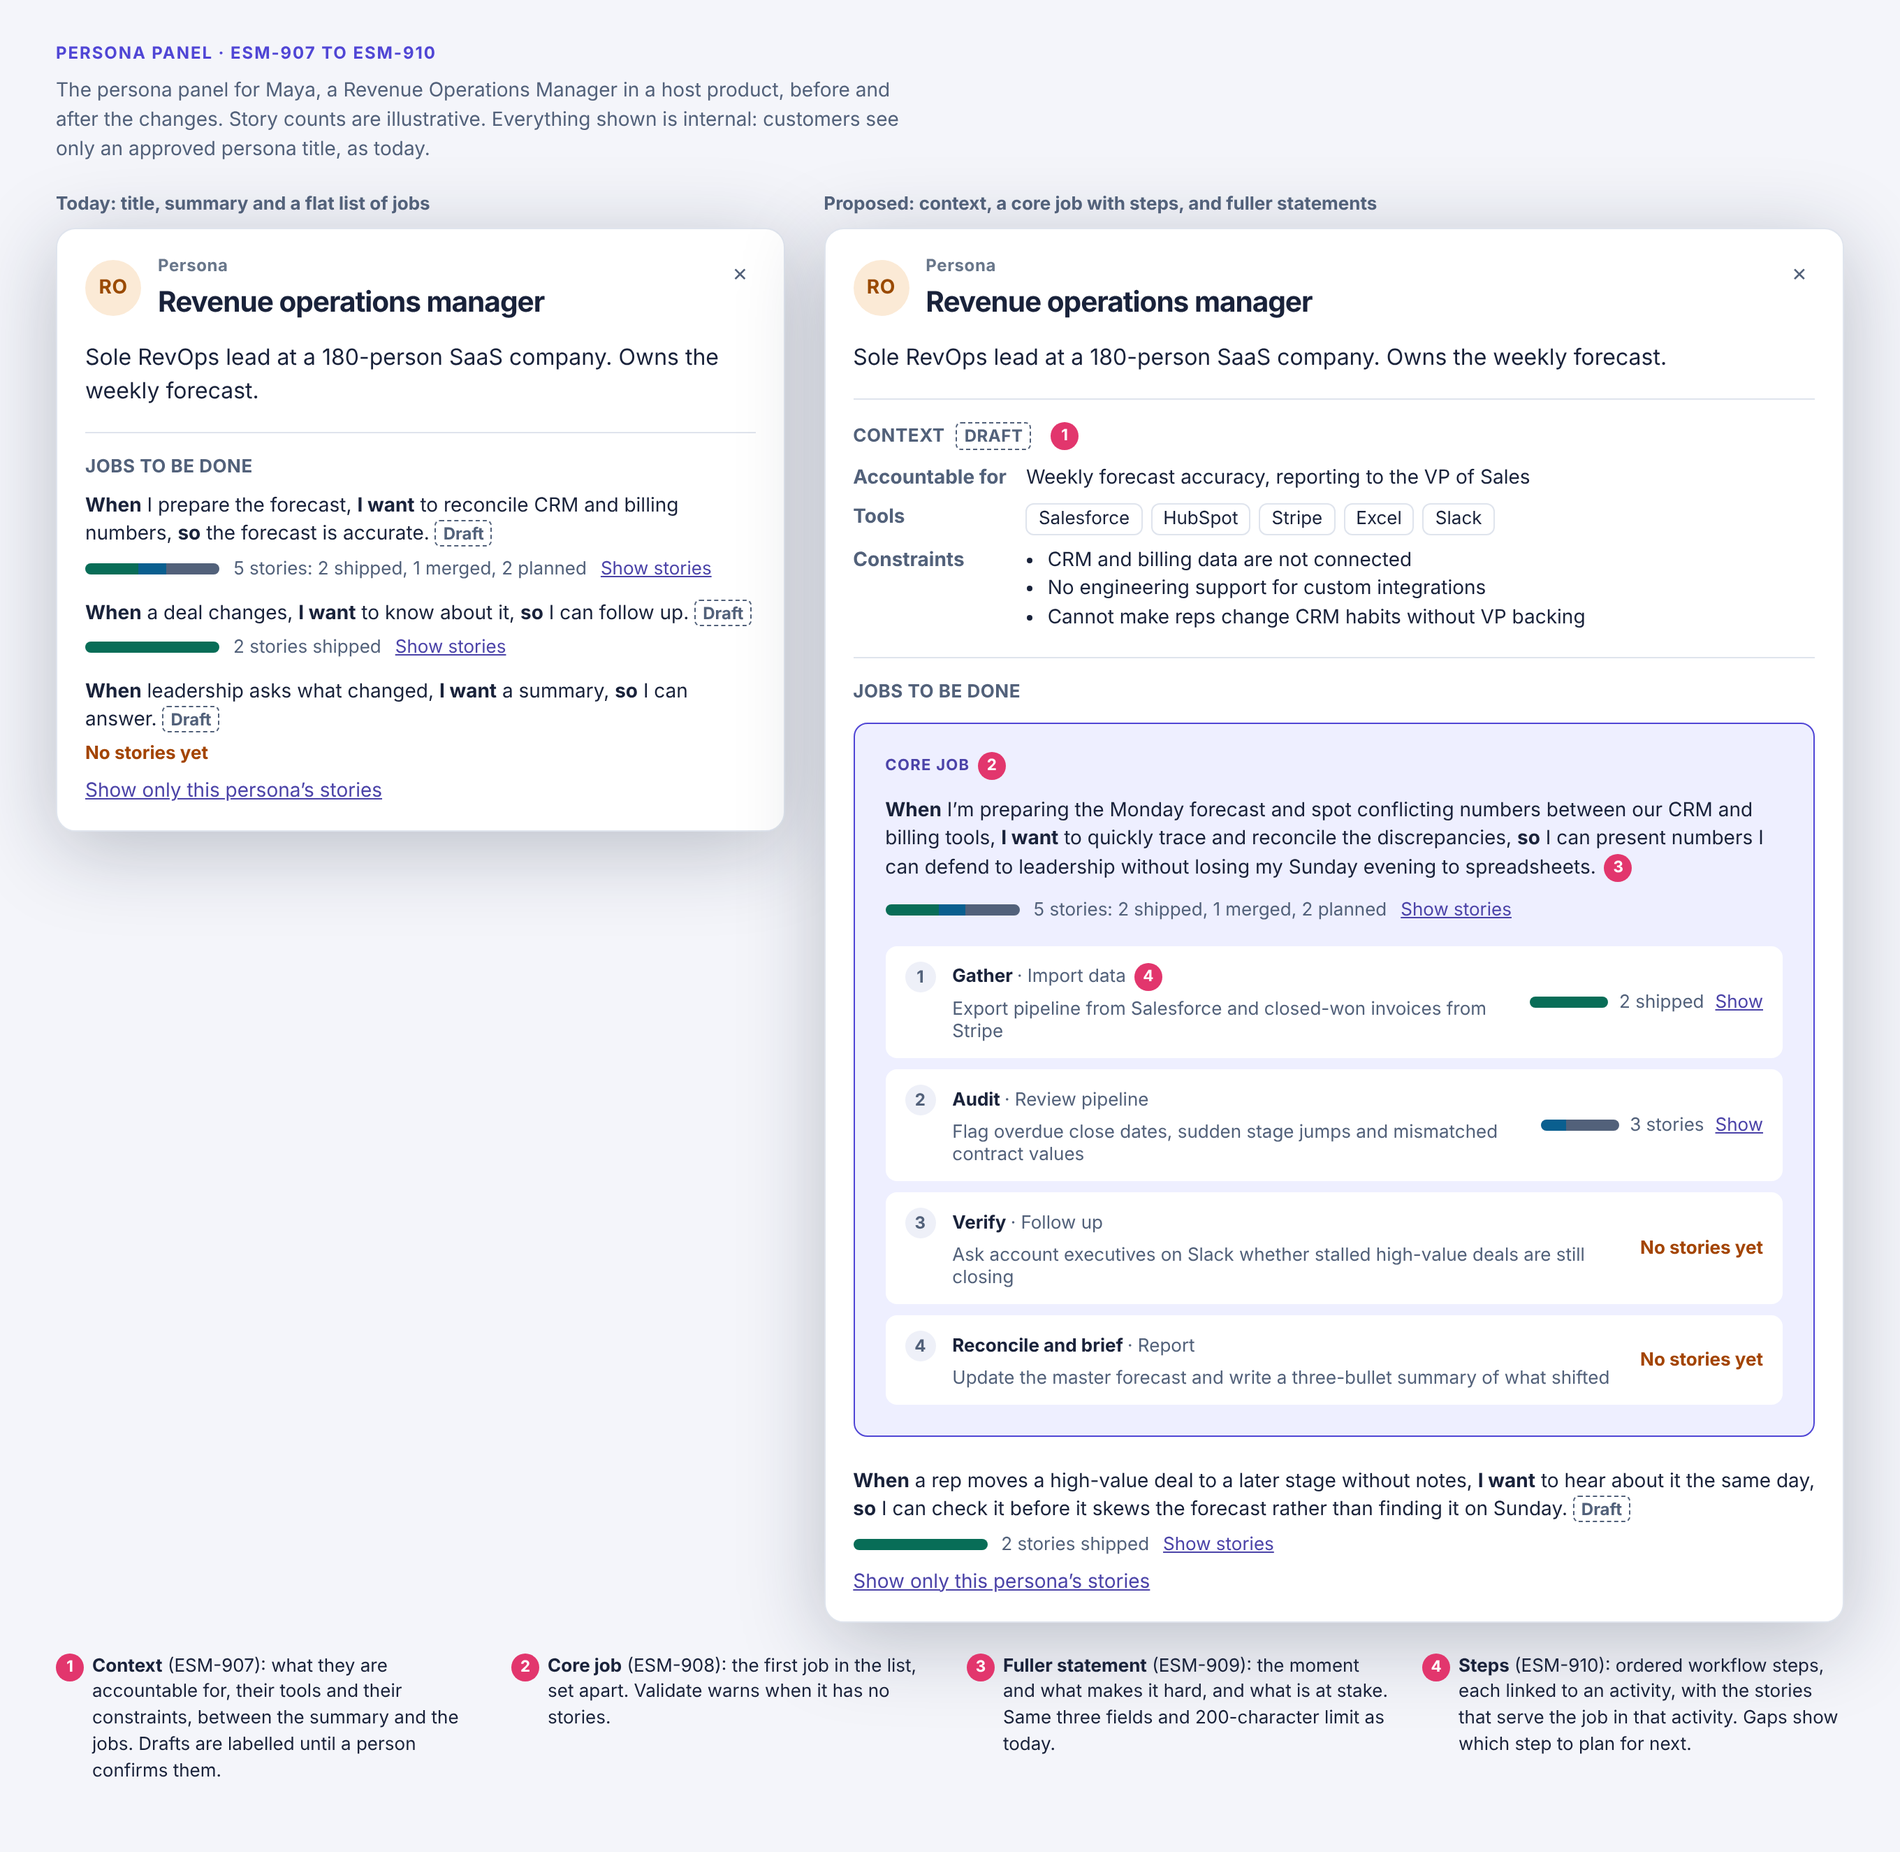
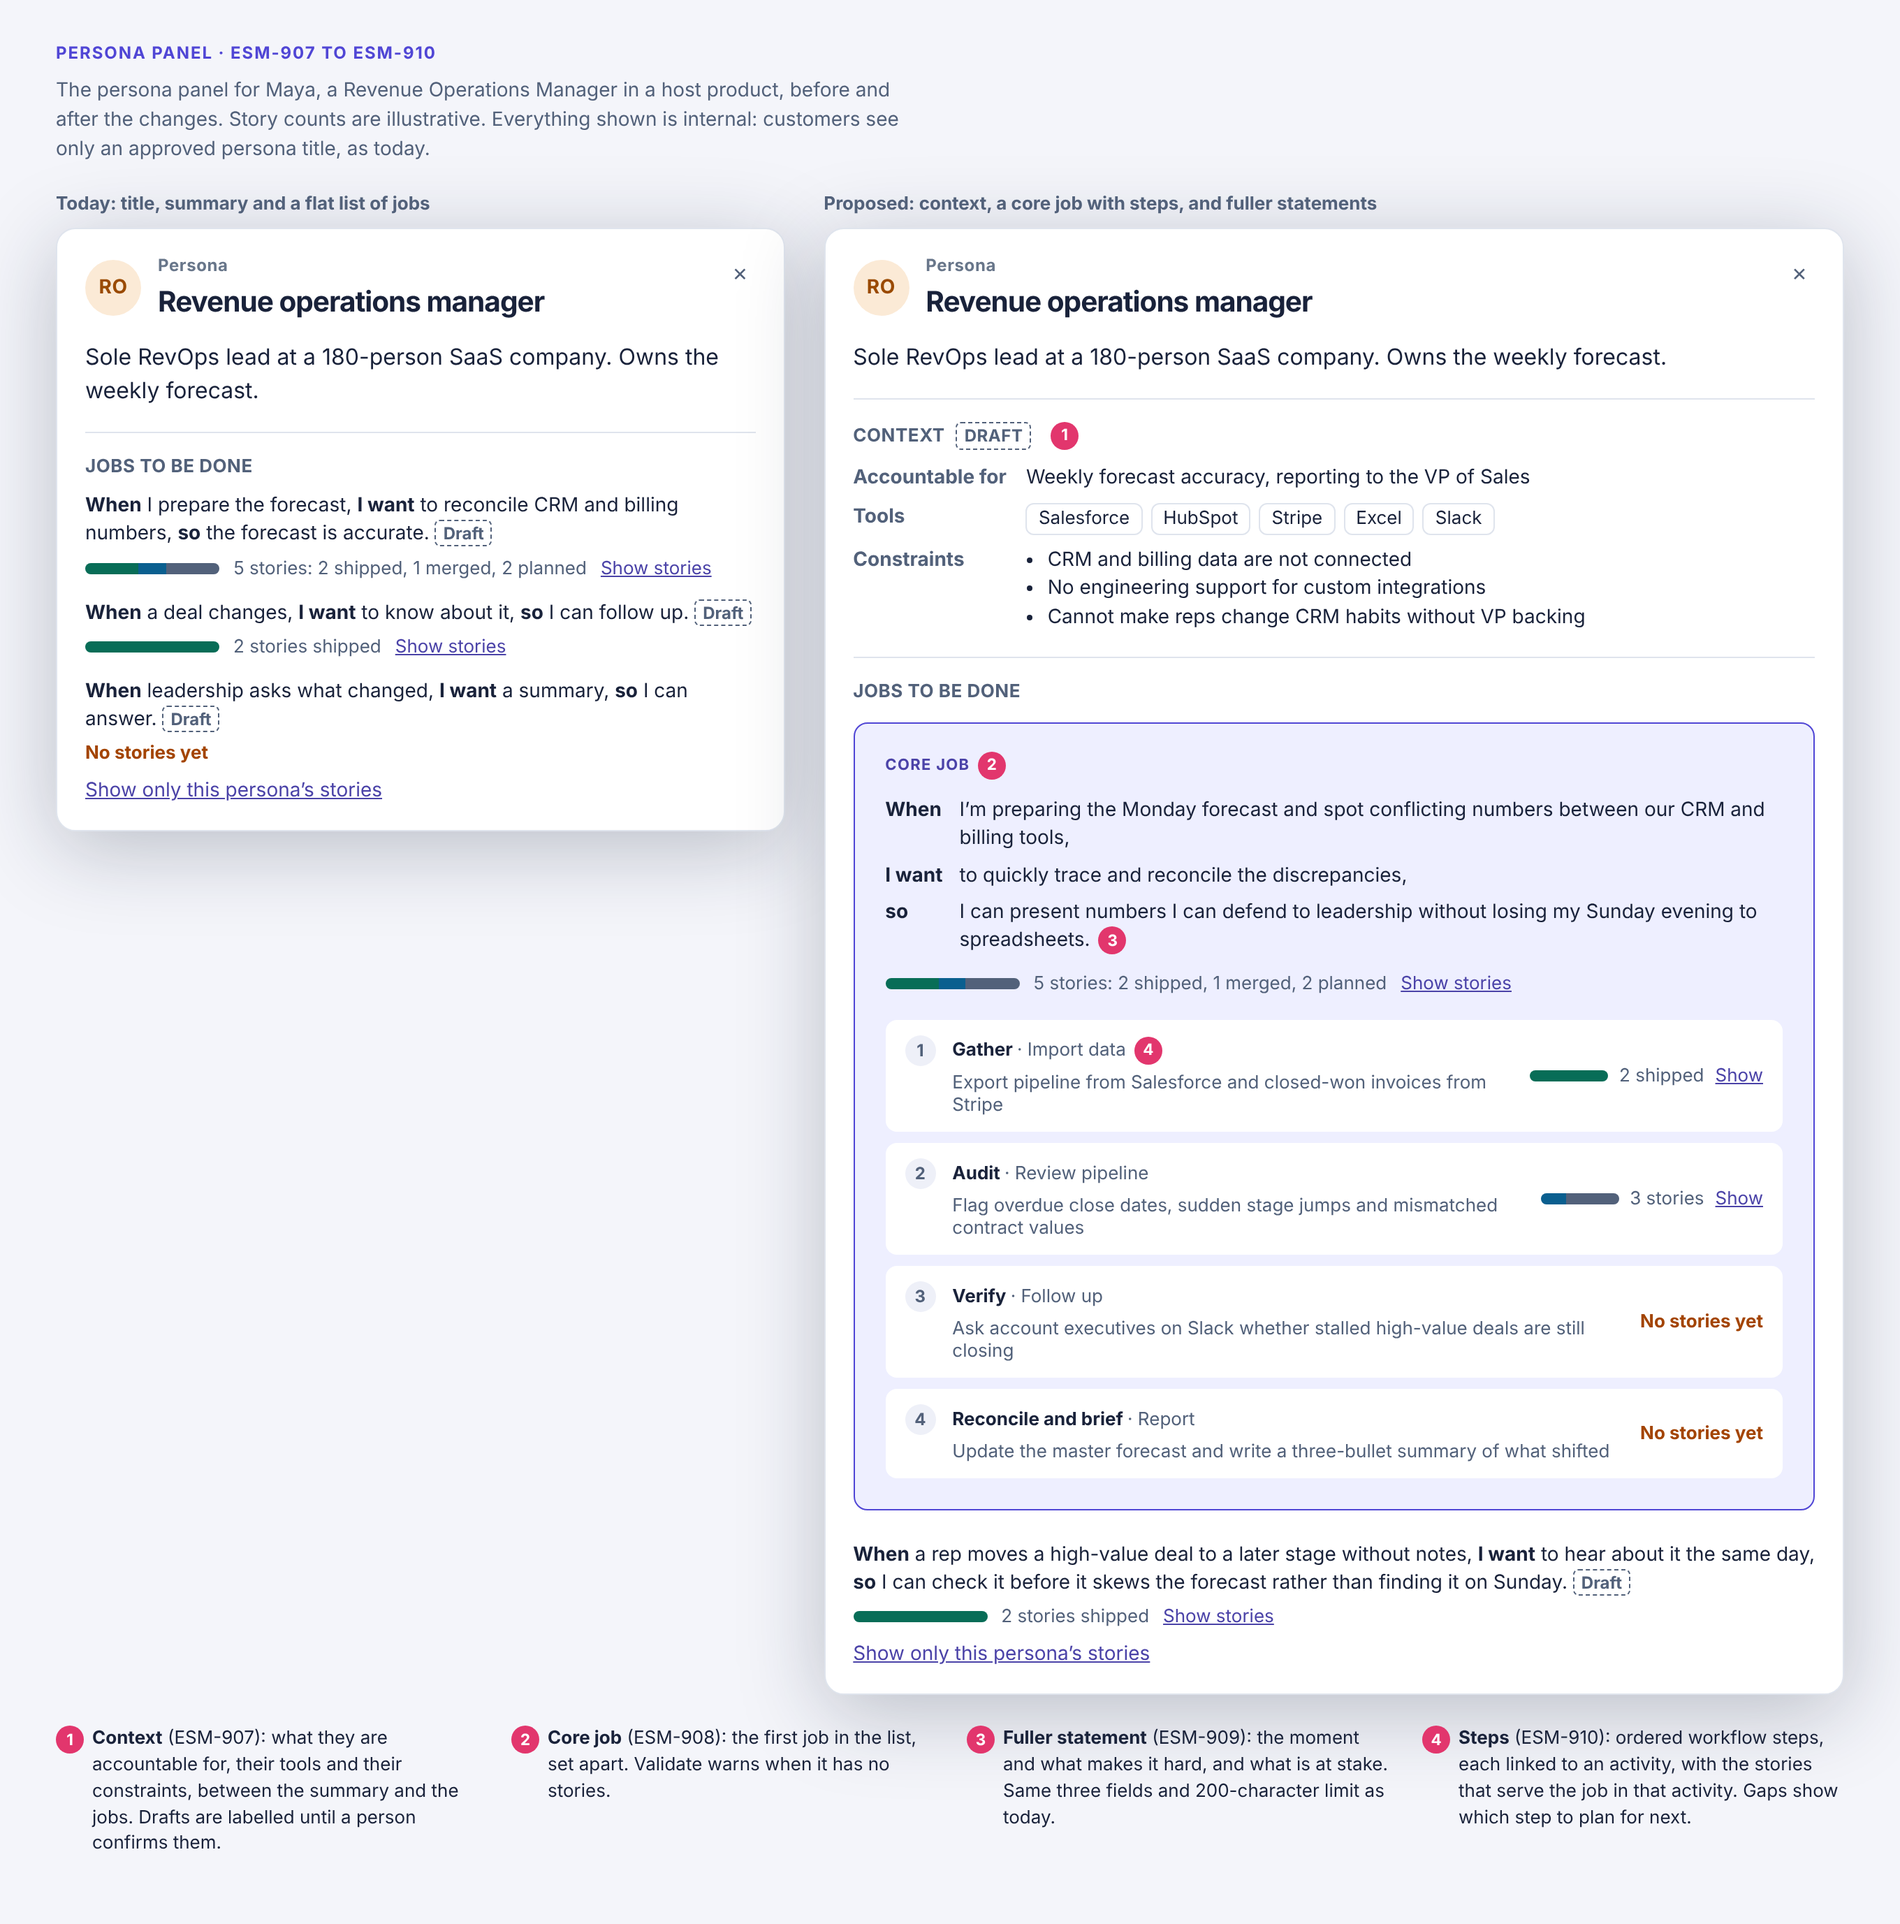
ESM-908: Put each part of the core job statement on its own line
Claude-Session: https://claude.ai/code/session_01Lq2MQU9VuAnafWHNpvrwxg

diff --git a/docs/plans/persona-context-mockup.html b/docs/plans/persona-context-mockup.html
@@ -28,6 +28,7 @@
   .esm-section-head { display: flex; align-items: center; gap: 8px; }
   .esm-job-core { display: grid; gap: 12px; margin: 4px 0 8px; padding: 20px 22px 22px; border: 1px solid var(--esm-accent); border-radius: 10px; background: var(--esm-activity-bg); }
   .esm-job-core .esm-job-statement { margin: 0; }
+  .esm-job-statement-lines { display: grid; grid-template-columns: max-content minmax(0, 1fr); gap: 6px 12px; }
   .esm-core-label { display: inline-block; margin-bottom: 0; color: var(--esm-accent-ink); font-size: .6875rem; font-weight: 750; letter-spacing: .06em; text-transform: uppercase; }
   .esm-job-steps { display: grid; gap: 8px; margin: 6px 0 0; padding: 0; list-style: none; counter-reset: step; }
   .esm-job-step { display: grid; grid-template-columns: 22px minmax(0, 1fr) auto; gap: 4px 12px; align-items: center; padding: 11px 14px; border-radius: 8px; background: var(--esm-paper); font-size: .8125rem; counter-increment: step; }
@@ -99,7 +100,7 @@
           <ul class="esm-jobs">
             <li class="esm-job esm-job-core">
               <span class="esm-core-label">Core job<span class="mock-callout">2</span></span>
-              <p class="esm-job-statement"><b>When</b> I’m preparing the Monday forecast and spot conflicting numbers between our CRM and billing tools, <b>I want</b> to quickly trace and reconcile the discrepancies, <b>so</b> I can present numbers I can defend to leadership without losing my Sunday evening to spreadsheets.<span class="mock-callout">3</span></p>
+              <p class="esm-job-statement esm-job-statement-lines"><b>When</b><span>I’m preparing the Monday forecast and spot conflicting numbers between our CRM and billing tools,</span><b>I want</b><span>to quickly trace and reconcile the discrepancies,</span><b>so</b><span>I can present numbers I can defend to leadership without losing my Sunday evening to spreadsheets.<span class="mock-callout">3</span></span></p>
               <p class="esm-job-meta"><span class="esm-bar"><span data-status="shipped" style="width:40%"></span><span data-status="merged" style="width:20%"></span><span data-status="planned" style="width:40%"></span></span><span>5 stories: 2 shipped, 1 merged, 2 planned</span><a href="#">Show stories</a></p>
               <ol class="esm-job-steps">
                 <li class="esm-job-step"><span class="esm-job-step-title">Gather <span class="esm-job-step-activity">· Import data</span><span class="mock-callout">4</span></span><span class="esm-job-step-summary">Export pipeline from Salesforce and closed-won invoices from Stripe</span><span class="esm-job-step-meta"><span class="esm-bar"><span data-status="shipped" style="width:100%"></span></span>2 shipped <a href="#">Show</a></span></li>

diff --git a/docs/plans/personas.md b/docs/plans/personas.md
@@ -248,7 +248,7 @@ A persona usually has one job that matters most, and the rest support it. Today 
 **Change.**
 
 - The first job in a persona's `jobs` is their core job. No new field (decision J).
-- `src/react.tsx`: the persona panel labels it **Core job** and sets it apart from the others. The story panel's **Jobs** row marks it too.
+- `src/react.tsx`: the persona panel labels it **Core job** and sets it apart from the others, with “When”, “I want” and “so” each starting a new line, the lead words in a column of their own. The story panel's **Jobs** row marks it too.
 - Validate: a core job with no active stories gets its own warning, such as “Core job plan-release (Product manager) has no stories”, in place of the usual one.
 - `src/diff.ts`: report a change of core job when jobs are reordered, such as “Product manager's core job: plan-release → track-progress”.
 - JSON export: `core: true` on the first job of each persona, so agents need not know the rule.
